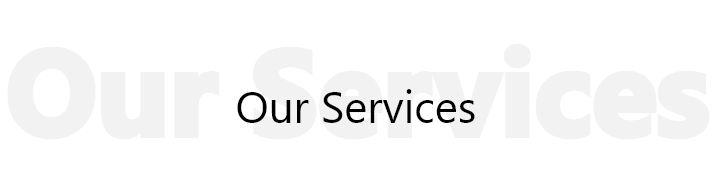
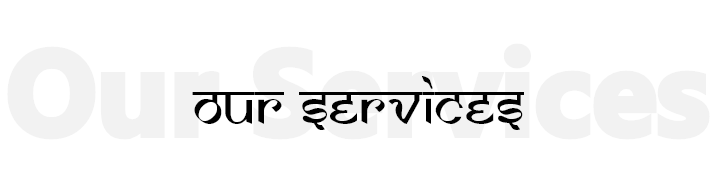
font changes

Changed region(s): [[0.2458, 0.5263, 0.7374, 0.7602], [0.5838, 0.4386, 0.6145, 0.4971]]

diff --git a/resources/views/about/curosel.blade.php b/resources/views/about/curosel.blade.php
@@ -46,6 +46,7 @@
                 }
             }
             .carousel__title{
+                font-family: 'Samarkan', sans-serif;
                 font-size:50px !important;
                 font-weight:bold;
                 color:white;
@@ -58,6 +59,7 @@
             }
             @media screen and (max-width: 1023px) {
                 .carousel__subtitle{
+
                 margin:0;
                 }
             }
@@ -72,14 +74,14 @@
             </ul>
             <div class="carousel-inner">
                 <div class="carousel-item active">
-                <img src="img/img_sm_1.jpg" alt="Los Angeles" width="100%" height="60%">
+                <img src="img/temple.jpg" alt="Los Angeles" width="100%" height="60%">
                 <div class="carousel-content">
                     <h1 class="carousel__title mb-0">@yield('curosal-title')</h1>
                     <p class="carousel__subtitle mb-0">@yield('curosal-subtitle')</p>
                 </div>   
                 </div>
                 <div class="carousel-item">
-                <img src="img/img_sm_1.jpg" alt="Chicago" width="100%" height="60%">
+                <img src="img/temple.jpg" alt="Chicago" width="100%" height="60%">
                 <div class="carousel-content">
                     <h1 class="carousel__title mb-0">@yield('curosal-title')</h1>
                     <p class="carousel__subtitle mb-0">@yield('curosal-subtitle')</p>

diff --git a/resources/views/layout/head.blade.php b/resources/views/layout/head.blade.php
@@ -4,6 +4,8 @@
     <meta charset="UTF-8">
     <meta http-equiv="X-UA-Compatible" content="IE=edge">
     <meta name="viewport" content="width=device-width, initial-scale=1.0">
+    <link href="http://fonts.cdnfonts.com/css/samarkan" rel="stylesheet">
+                
     <link rel="stylesheet" href="https://cdn.jsdelivr.net/npm/bootstrap@4.5.3/dist/css/bootstrap.min.css" integrity="sha384-TX8t27EcRE3e/ihU7zmQxVncDAy5uIKz4rEkgIXeMed4M0jlfIDPvg6uqKI2xXr2" crossorigin="anonymous">
     <link rel="stylesheet" href="https://stackpath.bootstrapcdn.com/bootstrap/4.3.1/css/bootstrap.min.css" integrity="sha384-ggOyR0iXCbMQv3Xipma34MD+dH/1fQ784/j6cY/iJTQUOhcWr7x9JvoRxT2MZw1T" crossorigin="anonymous">
     <link rel="stylesheet" href="https://cdnjs.cloudflare.com/ajax/libs/OwlCarousel2/2.3.4/assets/owl.carousel.min.css"
@@ -24,6 +26,7 @@
     <link rel="stylesheet" href="path/to/font-awesome/css/font-awesome.min.css">
     <title>Head</title>
     <style>
+    @import url('http://fonts.cdnfonts.com/css/samarkan');
              @font-face {
   font-family: 'icomoon';
   src: url("../fonts/icomoon/icomoon.eot?1z9v6x");

diff --git a/resources/views/home/homepage-banner.blade.php b/resources/views/home/homepage-banner.blade.php
@@ -29,6 +29,7 @@
             line-height: normal;
         }
         .homepage-banner__subtitle{
+            font-family: 'Samarkan', sans-serif;
             color: lightgray;
             line-height: normal;
         }
@@ -50,7 +51,7 @@
         <div class="container">
             <div class="row homepage-banner__wrapper">
                 <div class="col-md-6">
-                    <h1 class="homepage-banner__title mb0">Hone St</h1>
+                    <h1 class="homepage-banner__title mb0">Hone ST</h1>
                     <h2 class="homepage-banner__subtitle mb30">Solutions</h2>
                     <p class="homepage-banner__description mb30">Learn how design thinking, user research, business vision and marketing, and finally designing and creating real digital products for real users.</p>
                     {{-- <div class="d-flex justify-content-center"> --}}

diff --git a/resources/views/book/about-auther.blade.php b/resources/views/book/about-auther.blade.php
@@ -5,6 +5,7 @@
             background-color:lightblue;
         }
         .auther__title{
+            font-family: 'Samarkan', sans-serif;
             text-align:center;
             color:black;
             font-weight:bold;

diff --git a/resources/views/blog/blog_card.blade.php b/resources/views/blog/blog_card.blade.php
@@ -15,6 +15,7 @@
             height:15px;
         }
         .blog-card__title{
+            font-family: 'Samarkan', sans-serif;
             color:#19a5ac;
         }
         .blog-card__subtitle-date{
